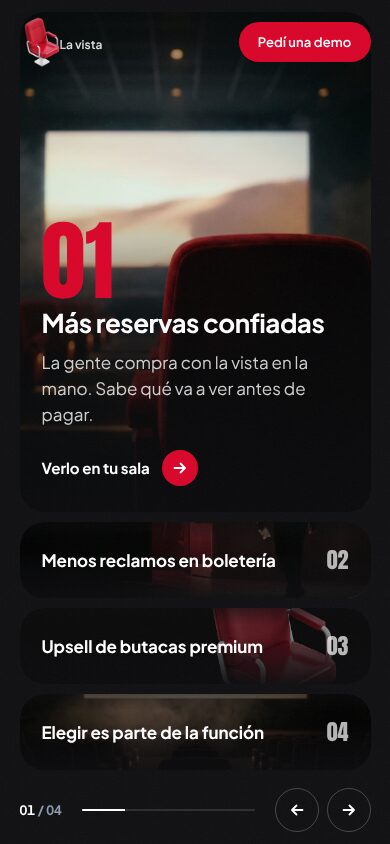
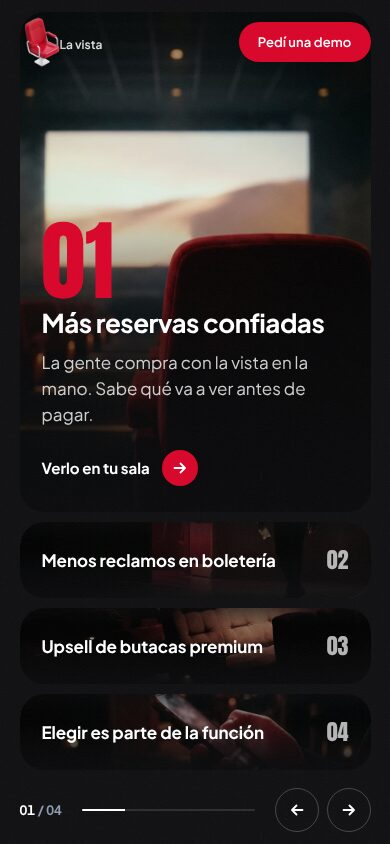
Reel: final art for cards 3 and 4
Claude-Session: https://claude.ai/code/session_01MN7WbNxdV5dMQKRJdDiPk1

Changed region(s): [[0.1538, 0.7085, 0.8615, 0.8934]]

diff --git a/index.html b/index.html
@@ -190,7 +190,7 @@
               </div>
             </article>
             <article class="reel__panel">
-              <img class="reel__img reel__img--chair" src="assets/cards/c3.jpg" width="1280" height="720" alt="La sala vista desde la puerta: filas de butacas rojas y la pantalla al fondo" loading="lazy" decoding="async">
+              <img class="reel__img reel__img--c3" src="assets/cards/c3.webp" width="1024" height="1024" alt="Una sala a oscuras con una sola butaca doble iluminada por un haz de luz entre las filas comunes" loading="lazy" decoding="async">
               <span class="reel__tag" aria-hidden="true">Premium</span>
               <span class="reel__num-sm" aria-hidden="true">03</span>
               <span class="reel__vtitle" aria-hidden="true">Upsell de butacas premium</span>
@@ -204,7 +204,7 @@
               </div>
             </article>
             <article class="reel__panel">
-              <img class="reel__img reel__img--c4" src="assets/poster-02.jpg" width="1920" height="1080" alt="Vista desde atrás de una butaca roja, frente a la pantalla con un desierto proyectado" loading="lazy" decoding="async">
+              <img class="reel__img reel__img--c4" src="assets/cards/c4.webp" width="1024" height="1024" alt="Una mano con un celular encendido frente a la puerta abierta de la sala" loading="lazy" decoding="async">
               <span class="reel__tag" aria-hidden="true">La función</span>
               <span class="reel__num-sm" aria-hidden="true">04</span>
               <span class="reel__vtitle" aria-hidden="true">Elegir es parte de la función</span>

diff --git a/css/styles.css b/css/styles.css
@@ -348,7 +348,8 @@ html.film-on .debug:not([hidden]) { display: block; position: absolute; inset: 0
   transform: scale(1.14); filter: saturate(.7) brightness(.55);
   transition: transform 1.1s var(--ease), filter .7s var(--ease);
 }
-.reel__img--chair { object-position: 72% 50%; }
+.reel__img--c3 { object-position: 60% 50%; }
+.reel__img--c4 { object-position: 58% 50%; }
 .reel__img--c1 { object-position: 62% 56%; }
 .reel__img--c2 { object-position: 60% 52%; }
 .reel__panel::after {
